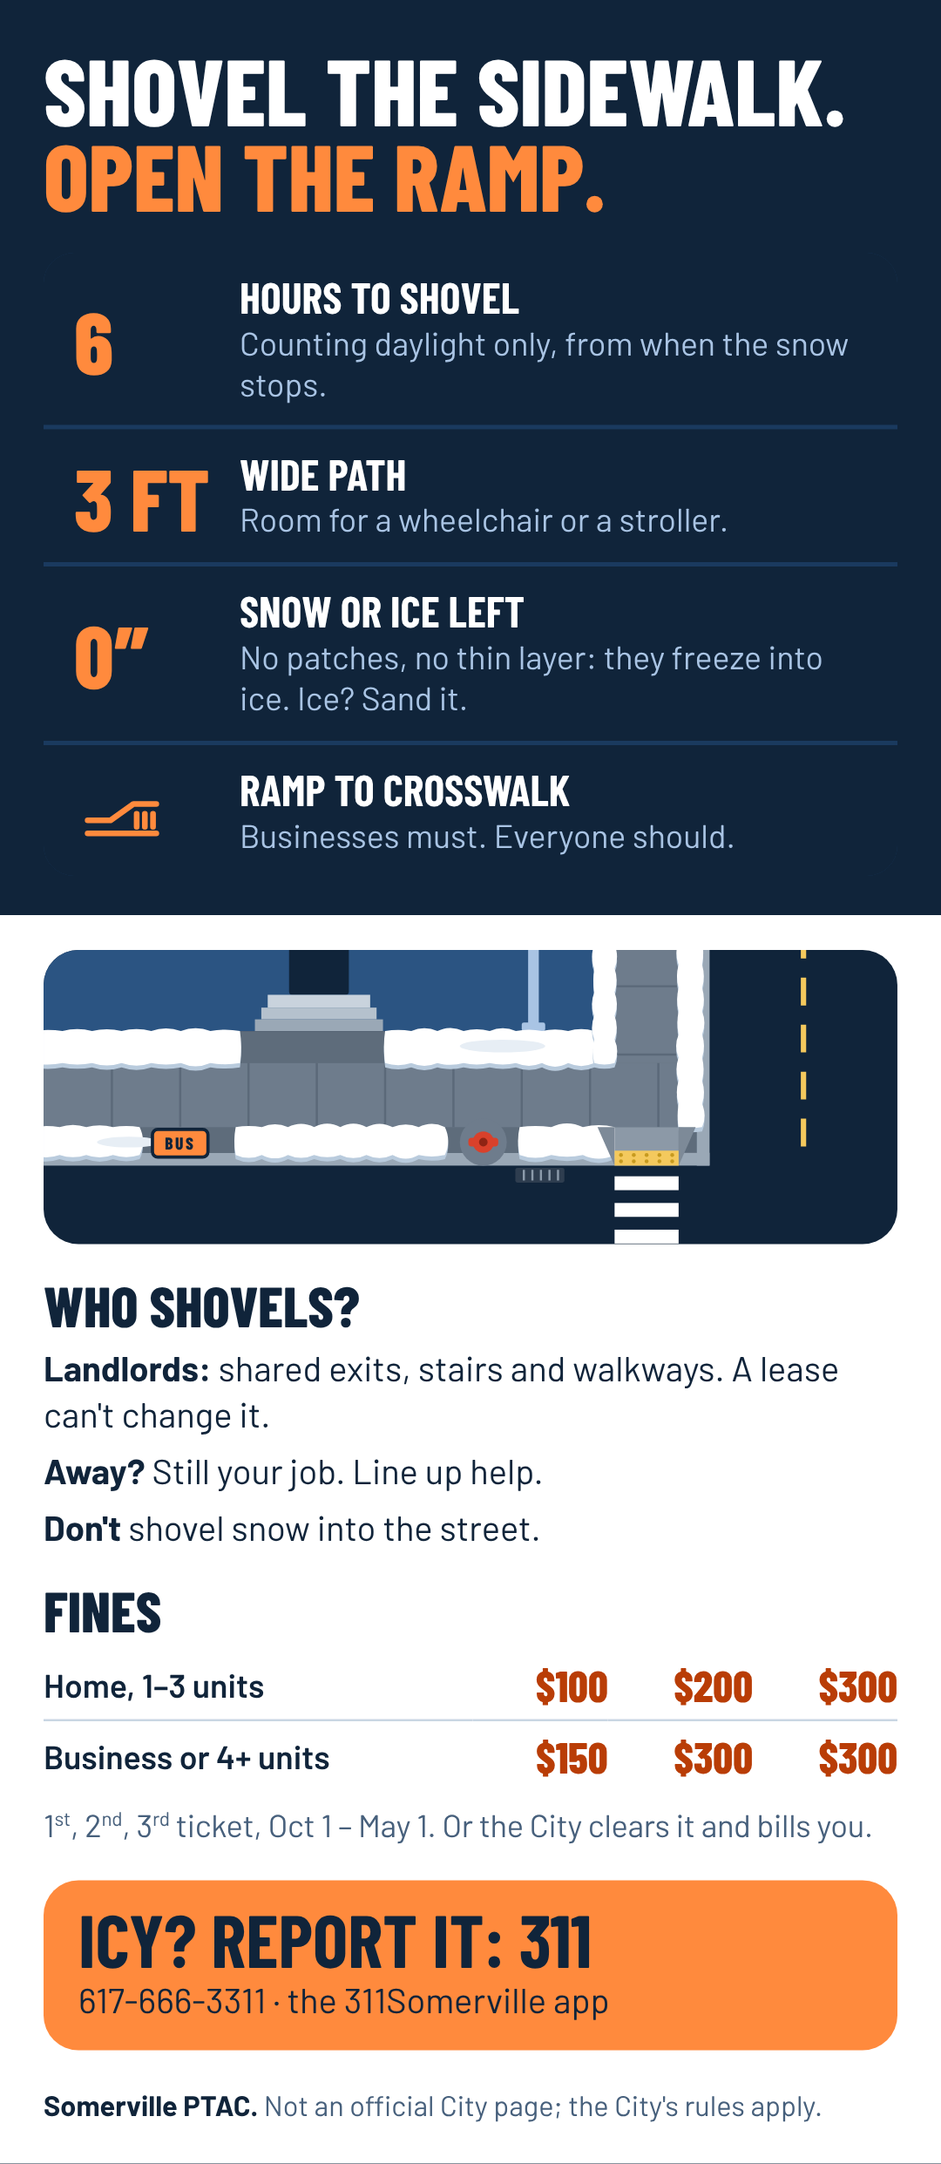
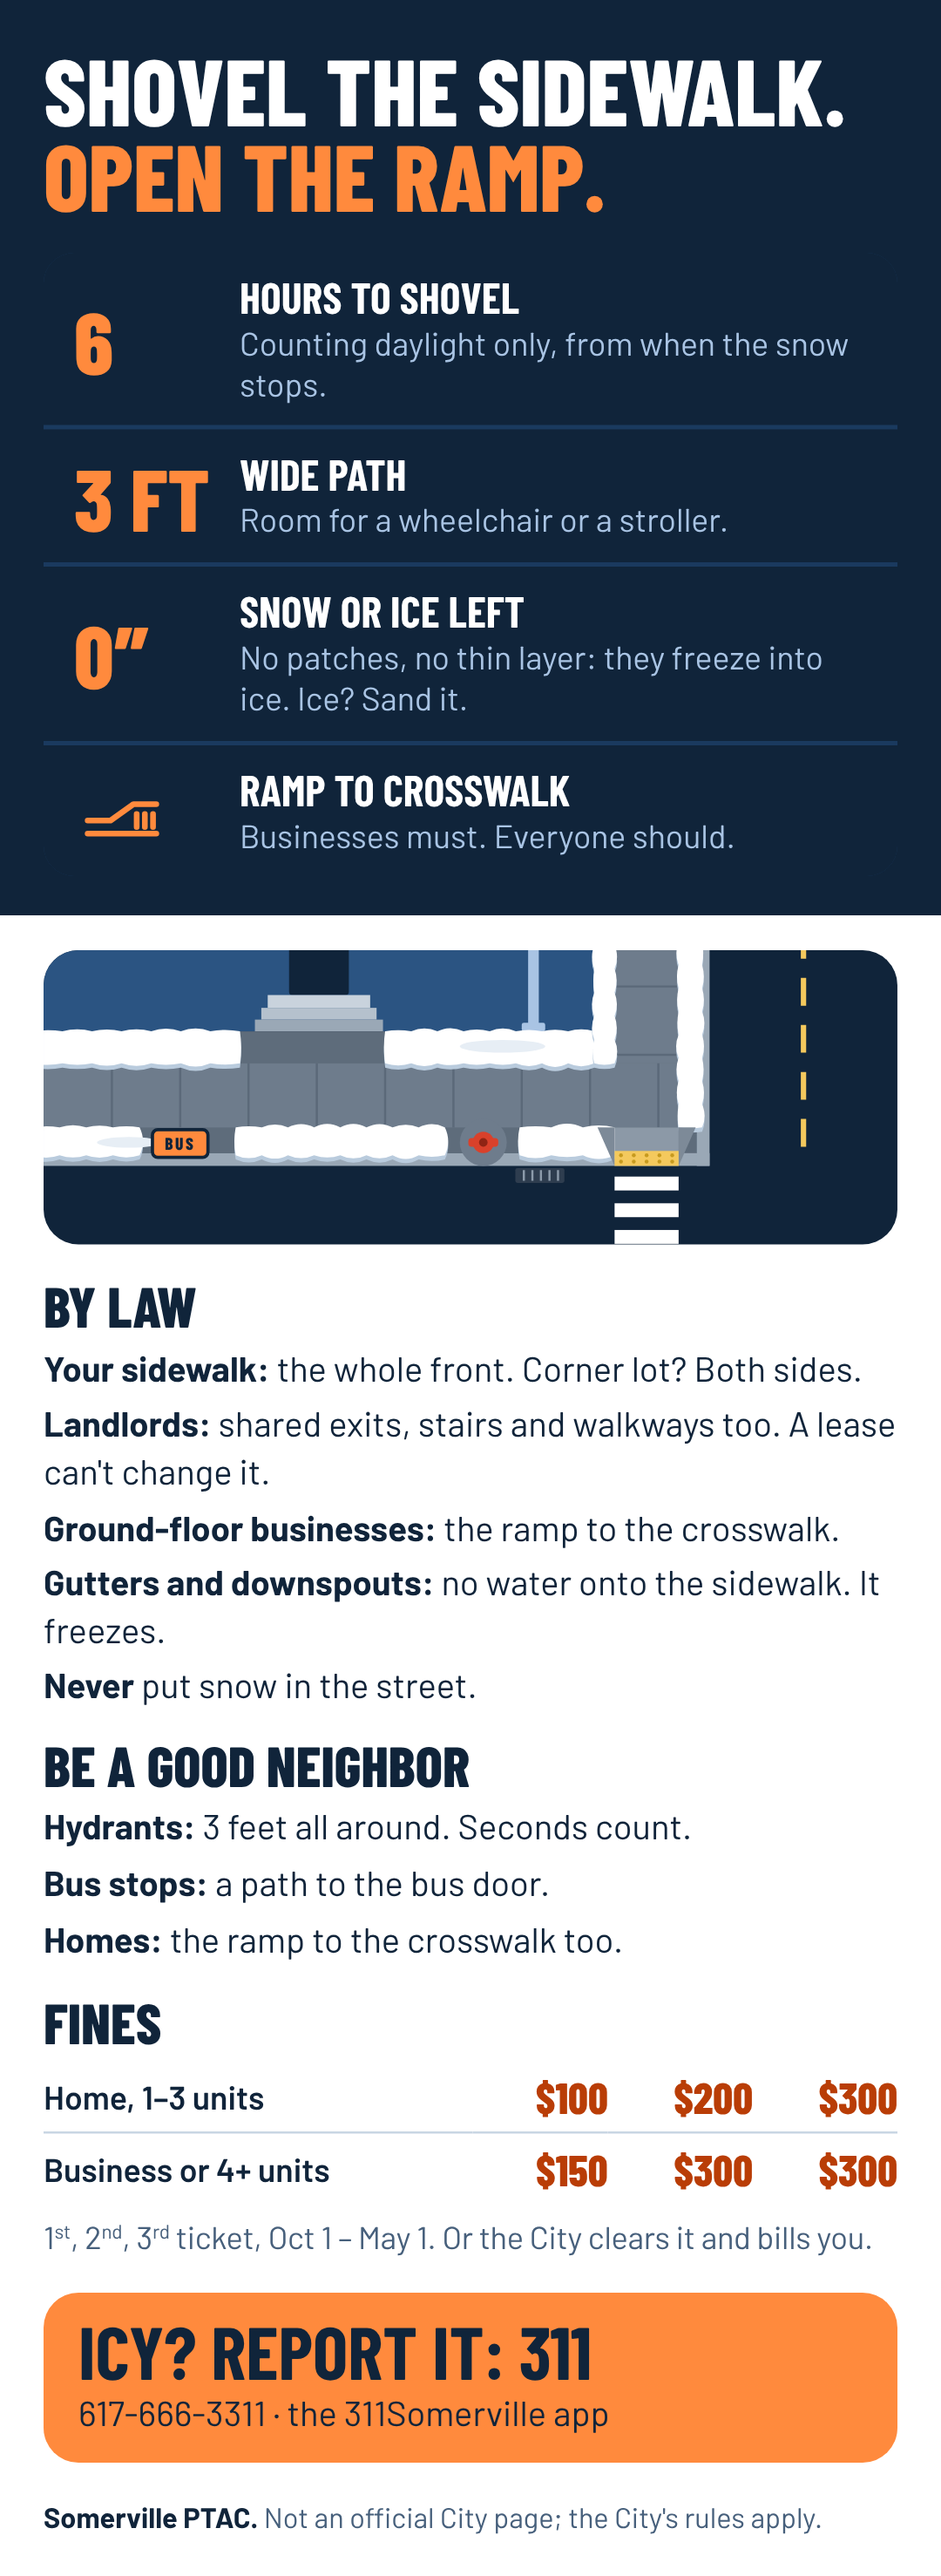
Flyers: split who-shovels into By law and Be a good neighbor
By law: your sidewalk, landlords' shared exits, ground-floor businesses'
curb ramps (12-8(a)(1) covers mixed-use buildings too), gutters and
downspouts (12-2), no snow in the street. Good neighbor: hydrants, bus
stops, home ramps. Print flyer trimmed to fit one page.

Claude-Session: https://claude.ai/code/session_01NQ76C6nydNvs9N6wiqQBM6

diff --git a/docs/flyer.html b/docs/flyer.html
@@ -22,17 +22,17 @@ h1,h2,b.k{font-family:var(--display);text-transform:uppercase;margin:0;line-heig
 .tools button{font:700 18px var(--display);letter-spacing:1.5px;text-transform:uppercase;background:var(--rust);color:#fff;border:0;border-radius:999px;padding:10px 22px;cursor:pointer}
 .tools a{color:var(--night)}
 .page{width:8.5in;height:11in;margin:0 auto 32px;background:#fff;display:flex;flex-direction:column;overflow:hidden;box-shadow:0 4px 30px rgba(16,36,58,.2)}
-.top{background:var(--night);color:#fff;padding:.38in .5in .3in}
+.top{background:var(--night);color:#fff;padding:.34in .5in .26in}
 .eyebrow{font:700 15px var(--display);letter-spacing:2.5px;text-transform:uppercase;color:var(--orange)}
 h1{font-size:56px;font-weight:800;margin-top:8px}
 h1 em{font-style:normal;color:var(--orange)}
-.rules{display:grid;grid-template-columns:repeat(4,1fr);gap:2px;background:var(--night-2);margin-top:.22in;border-radius:16px;overflow:hidden}
+.rules{display:grid;grid-template-columns:1fr 1fr 1fr 1.12fr;gap:2px;background:var(--night-2);margin-top:.22in;border-radius:16px;overflow:hidden}
 .rule{background:var(--night);padding:12px 14px;display:flex;flex-direction:column;gap:4px}
 .rule b{font:800 50px/0.85 var(--display);color:var(--orange)}
 .rule svg{width:50px;height:42px;fill:none;stroke:var(--orange);stroke-width:3.5;stroke-linecap:round;stroke-linejoin:round}
 .rule span{font:700 20px/1 var(--display);text-transform:uppercase}
 .rule small{font-size:14.5px;color:var(--ice);line-height:1.25}
-.body{flex:1;padding:.2in .5in .12in;display:flex;flex-direction:column;gap:.15in}
+.body{flex:1;padding:.2in .5in .12in;display:flex;flex-direction:column;gap:.12in}
 .art svg{width:100%;height:auto;display:block;border-radius:16px}
 .cap{font-family:var(--display);font-weight:800;letter-spacing:2px}
 .cols{display:grid;grid-template-columns:1fr 1fr;gap:.25in}
@@ -44,11 +44,12 @@ h2{font-size:26px;font-weight:800;margin-bottom:8px}
 .note{font-size:15px;color:var(--mute);margin:8px 0 0;line-height:1.35}
 .list{margin:0;padding:0;list-style:none;font-size:16.5px;line-height:1.35;display:flex;flex-direction:column;gap:6px}
 .list b{font-weight:700}
+.h2b{margin-top:10px}
 .report{display:grid;grid-template-columns:1fr 1.15in;gap:14px;align-items:center;background:var(--orange);border-radius:16px;padding:14px 16px}
 .report b.k{font-size:46px;display:block}
 .report p{margin:2px 0 0;font-size:15.5px;line-height:1.3}
 .report img{width:1.15in;height:1.15in;background:#fff;padding:6px;border-radius:8px;display:block}
-.foot{padding:.08in .5in .28in;font-size:13px;color:var(--mute);display:flex;justify-content:space-between;gap:16px}
+.foot{white-space:nowrap;padding:.08in .5in .24in;font-size:13px;color:var(--mute);display:flex;justify-content:space-between;gap:16px}
 .foot b{color:var(--night)}
 @page{size:letter;margin:0}
 @media print{body{background:#fff}.tools{display:none}.page{margin:0;box-shadow:none}}
@@ -62,9 +63,9 @@ h2{font-size:26px;font-weight:800;margin-bottom:8px}
     <div class="eyebrow">Winter 2026/27 · Somerville, MA · Snow &amp; ice on the sidewalk</div>
     <h1>Shovel the sidewalk.<br><em>Open the ramp.</em></h1>
     <div class="rules">
-      <div class="rule"><b>6</b><span>Hours to shovel</span><small>Counting daylight only, from when the snow stops.</small></div>
+      <div class="rule"><b>6</b><span>Hours to shovel</span><small>Daylight only, from when the snow stops.</small></div>
       <div class="rule"><b>3 FT</b><span>Wide path</span><small>Room for a wheelchair or a stroller.</small></div>
-      <div class="rule"><b>0″</b><span>Snow or ice left</span><small>No patches, no thin layer: they freeze into ice. Ice? Sand it.</small></div>
+      <div class="rule"><b>0″</b><span>Snow or ice left</span><small>No patches, no thin layer: it turns to ice.</small></div>
       <div class="rule"><svg viewBox="0 0 48 48" aria-hidden="true"><path d="M3 30 H17 L31 20 H45"/><path d="M3 38 H45"/><path d="M33 26 V34 M38 26 V34 M43 26 V34"/></svg><span>Ramp to crosswalk</span><small>Businesses must. Everyone should.</small></div>
     </div>
   </div>
@@ -72,12 +73,13 @@ h2{font-size:26px;font-weight:800;margin-bottom:8px}
     <div class="art" id="art"></div>
     <div class="cols">
       <div>
-        <h2>Who shovels?</h2>
+        <h2>By law</h2>
         <ul class="list">
-          <li><b>Owners and tenants:</b> the sidewalk in front. Corner lot? Both sidewalks.</li>
-          <li><b>Landlords:</b> shared exits, stairs and walkways. A lease can't change it.</li>
-          <li><b>Away?</b> Still your job. Line up help.</li>
-          <li><b>Don't</b> shovel snow into the street.</li>
+          <li><b>Your sidewalk:</b> the whole front. Corner lot? Both sides.</li>
+          <li><b>Landlords:</b> shared exits, stairs and walkways too. A lease can't change it.</li>
+          <li><b>Ground-floor businesses:</b> the ramp to the crosswalk.</li>
+          <li><b>Gutters and downspouts:</b> no water onto the sidewalk. It freezes.</li>
+          <li><b>Never</b> put snow in the street.</li>
         </ul>
       </div>
       <div>
@@ -87,6 +89,12 @@ h2{font-size:26px;font-weight:800;margin-bottom:8px}
           <tr><th>Business or 4+ units</th><td>$150</td><td>$300</td><td>$300</td></tr>
         </table>
         <p class="note">1st, 2nd, 3rd ticket. Counted Oct 1 – May 1. Snow in the street: same fines. Or the City clears it and bills you.</p>
+        <h2 class="h2b">Be a good neighbor</h2>
+        <ul class="list">
+          <li><b>Hydrants:</b> 3 feet all around. Seconds count.</li>
+          <li><b>Bus stops:</b> a path to the bus door.</li>
+          <li><b>Homes:</b> the ramp to the crosswalk too.</li>
+        </ul>
       </div>
     </div>
     <div class="report">
@@ -98,13 +106,13 @@ h2{font-size:26px;font-weight:800;margin-bottom:8px}
       <img src="qr.svg" alt="QR code to vitorpamplona.com/somersnow">
     </div>
   </div>
-  <div class="foot"><span><b>Somerville Pedestrian &amp; Transit Advisory Committee (PTAC).</b> Not an official City page. The City's rules apply.</span><span>Official rules in 9 languages: somervillema.gov/snow</span></div>
+  <div class="foot"><span><b>Somerville Pedestrian &amp; Transit Advisory Committee (PTAC).</b> Not an official City page; the City's rules apply.</span><span>somervillema.gov/snow</span></div>
 </main>
 <script type="module">
 import { corner } from './js/corner.js';
 document.getElementById('art').innerHTML = corner('flyer-corner', false);
 // Crop to the sidewalk band so the page keeps room for fines, 311 and the QR code.
-document.querySelector('#art svg').setAttribute('viewBox', '0 150 800 276');
+document.querySelector('#art svg').setAttribute('viewBox', '0 166 800 230');
 </script>
 </body>
 </html>

diff --git a/docs/flyer-phone.html b/docs/flyer-phone.html
@@ -45,6 +45,7 @@ h2{font-size:26px;font-weight:800;margin-bottom:8px}
 .note{font-size:15px;color:var(--mute);margin:8px 0 0;line-height:1.35}
 .list{margin:0;padding:0;list-style:none;font-size:16.5px;line-height:1.35;display:flex;flex-direction:column;gap:6px}
 .list b{font-weight:700}
+.h2b{margin-top:14px}
 .report{display:grid;grid-template-columns:1fr 1.15in;gap:14px;align-items:center;background:var(--orange);border-radius:16px;padding:14px 16px}
 .report b.k{font-size:46px;display:block}
 .report p{margin:2px 0 0;font-size:15.5px;line-height:1.3}
@@ -99,11 +100,19 @@ h2{font-size:26px;margin-bottom:6px}
     <div class="art" id="art"></div>
     <div class="cols">
       <div>
-        <h2>Who shovels?</h2>
+        <h2>By law</h2>
         <ul class="list">
-                    <li><b>Landlords:</b> shared exits, stairs and walkways. A lease can't change it.</li>
-          <li><b>Away?</b> Still your job. Line up help.</li>
-          <li><b>Don't</b> shovel snow into the street.</li>
+          <li><b>Your sidewalk:</b> the whole front. Corner lot? Both sides.</li>
+          <li><b>Landlords:</b> shared exits, stairs and walkways too. A lease can't change it.</li>
+          <li><b>Ground-floor businesses:</b> the ramp to the crosswalk.</li>
+          <li><b>Gutters and downspouts:</b> no water onto the sidewalk. It freezes.</li>
+          <li><b>Never</b> put snow in the street.</li>
+        </ul>
+        <h2 class="h2b">Be a good neighbor</h2>
+        <ul class="list">
+          <li><b>Hydrants:</b> 3 feet all around. Seconds count.</li>
+          <li><b>Bus stops:</b> a path to the bus door.</li>
+          <li><b>Homes:</b> the ramp to the crosswalk too.</li>
         </ul>
       </div>
       <div>
